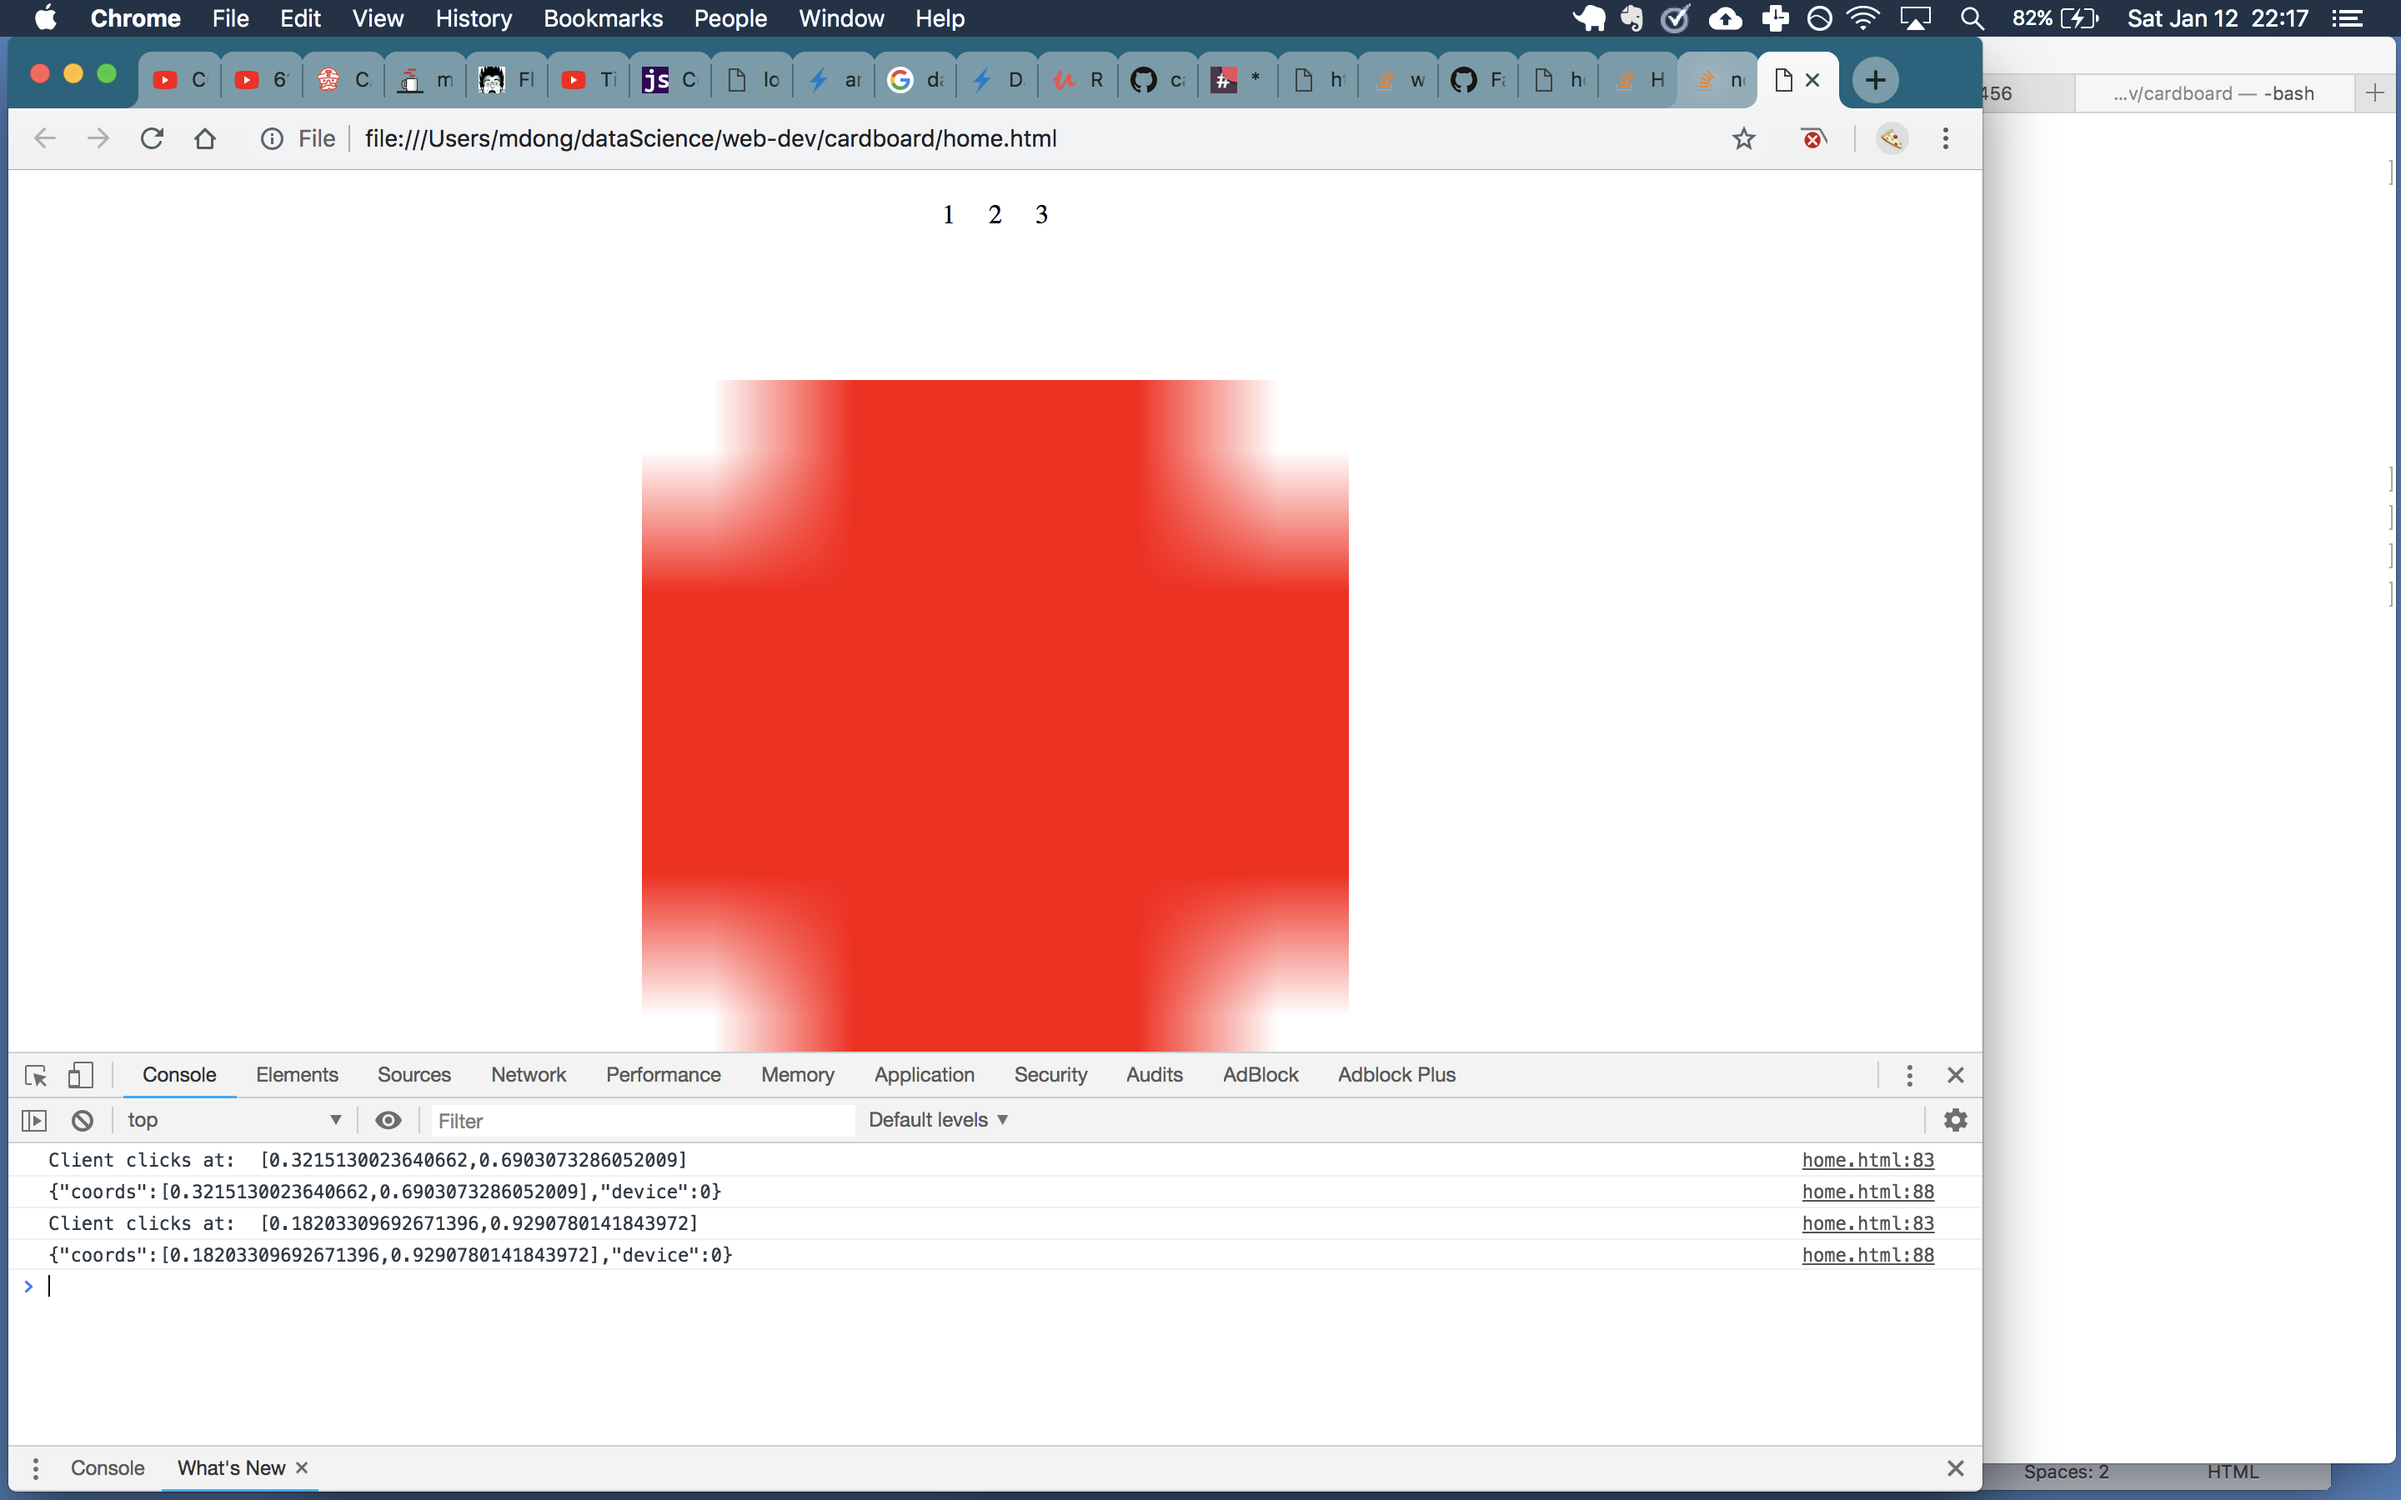
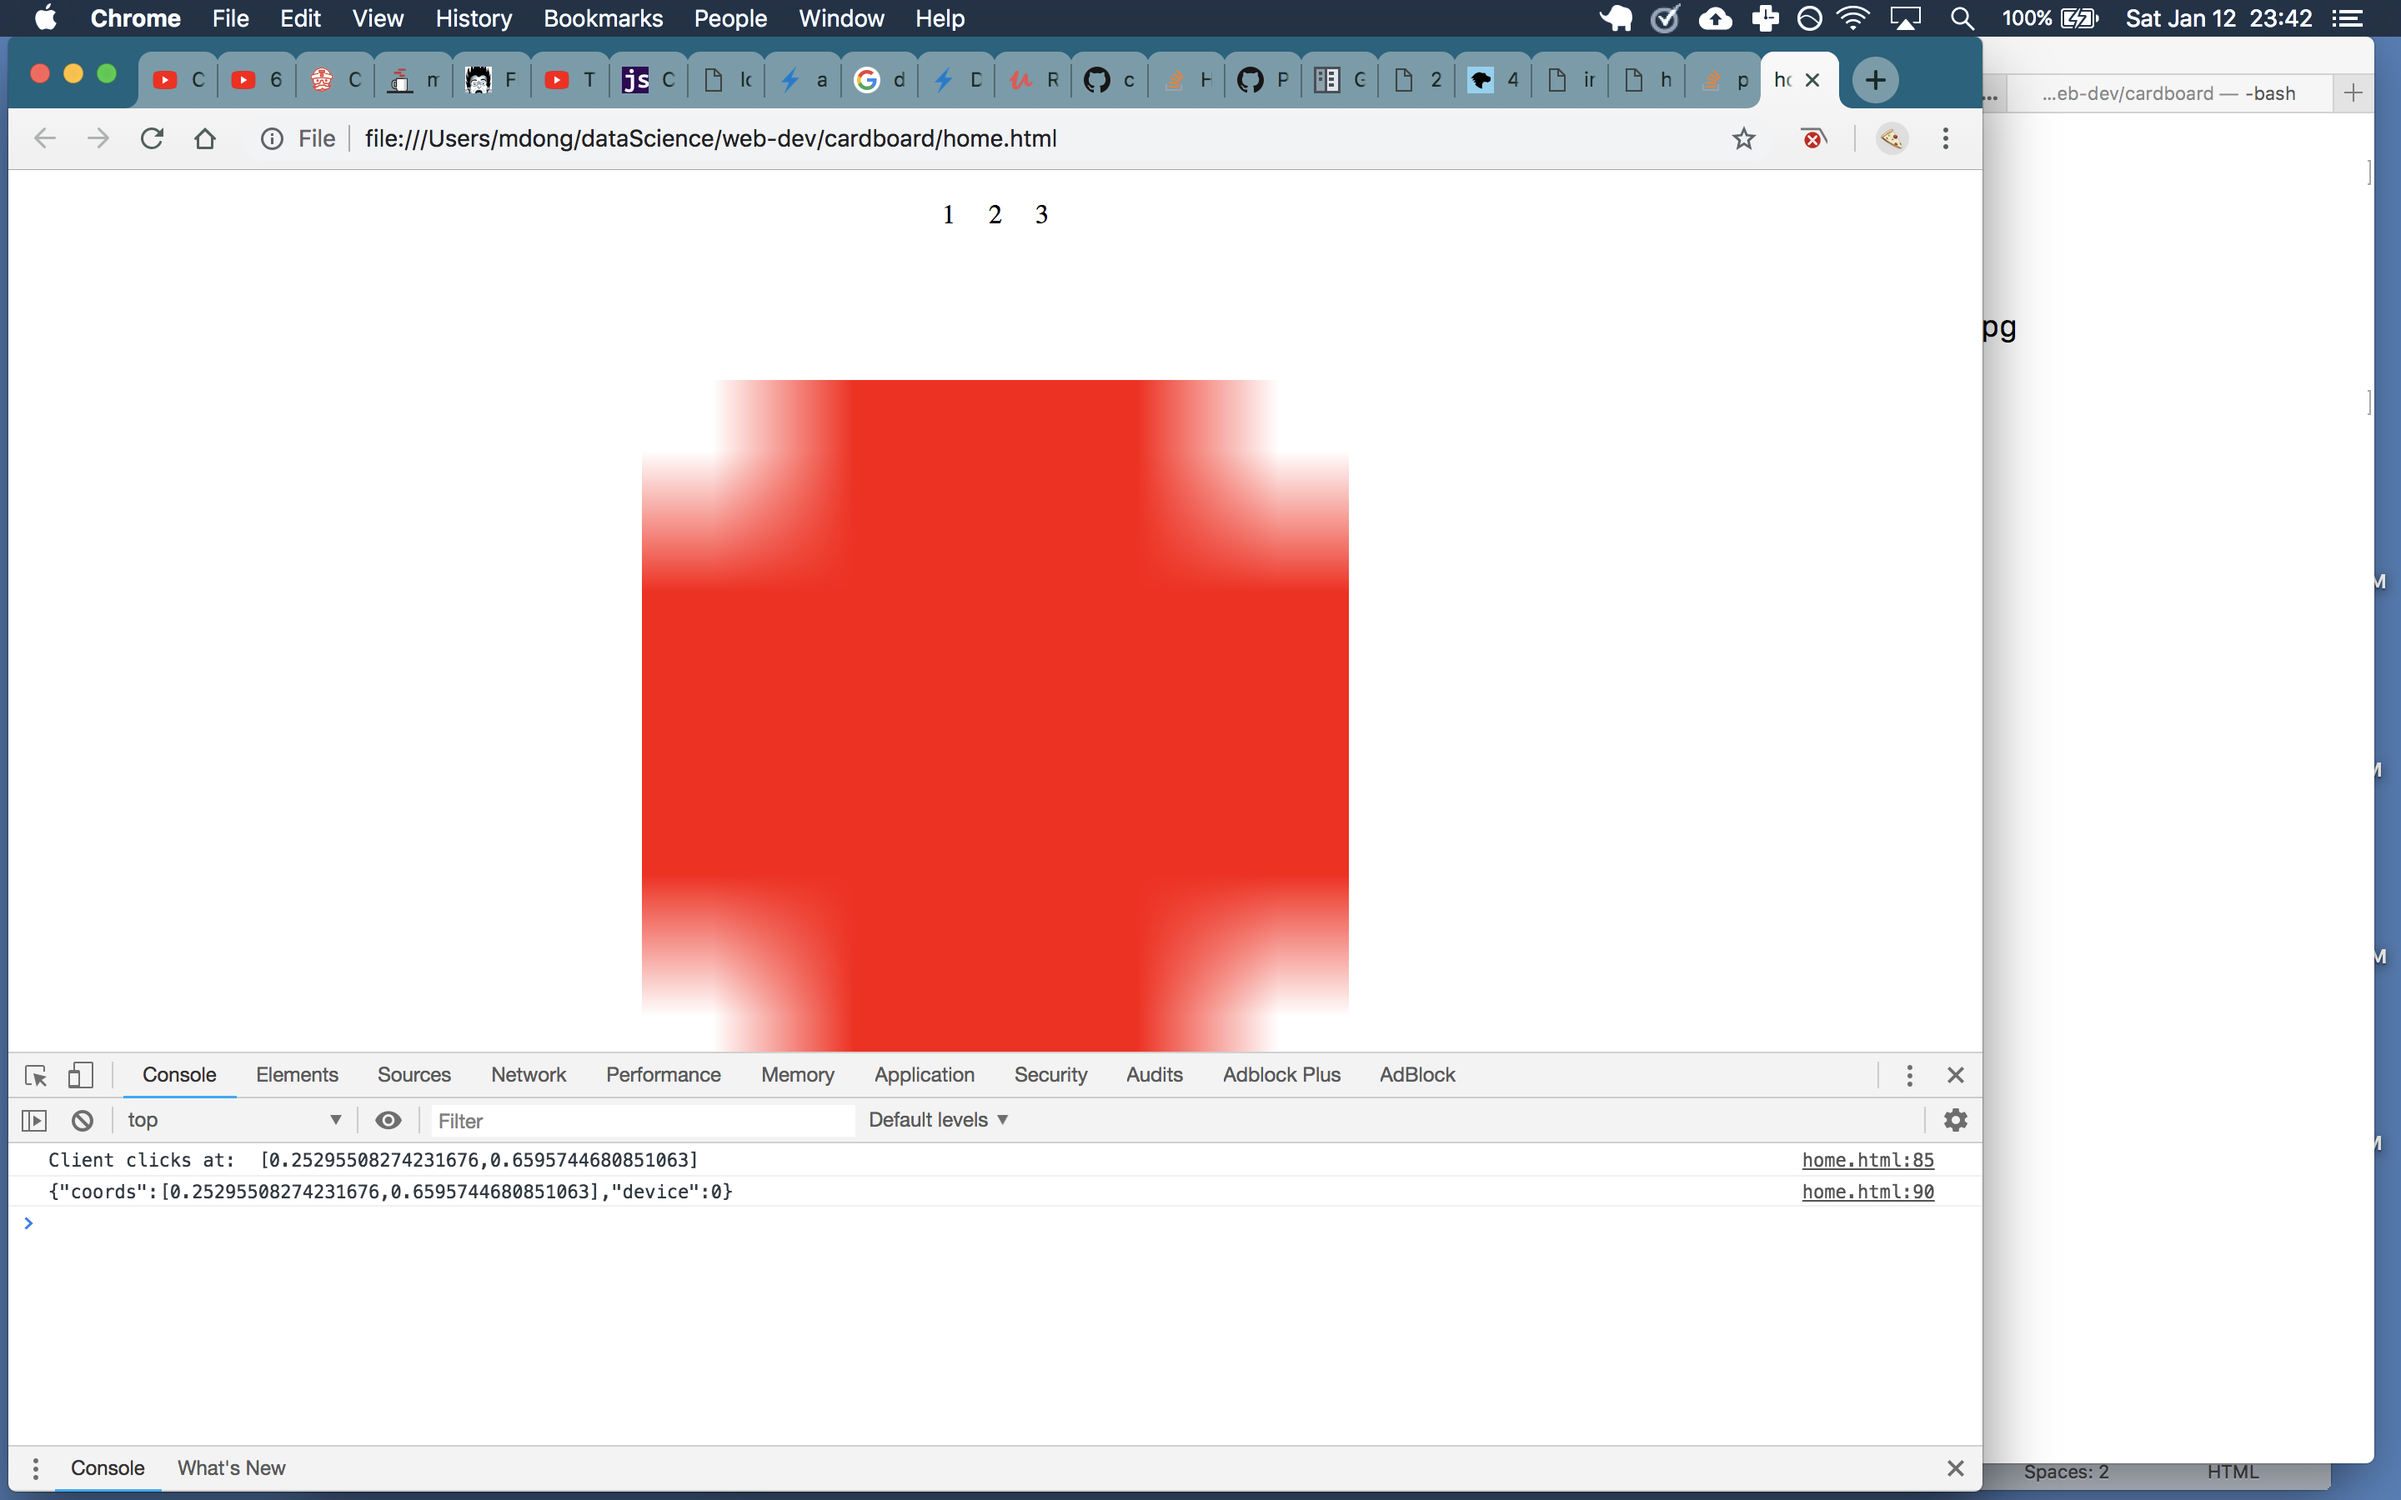
please ngrok work

diff --git a/home.html b/home.html
@@ -61,7 +61,8 @@ AAAFCAYAAACNbyblAAAAHElEQVQI12P4//8/w38GIAXDIBKE0DHxgljNBAAO
 					document.getElementById(id).innerHTML = temp
 			});
 
-      var connection = new WebSocket('ws://934800cc.ngrok.io');
+      var connection = new WebSocket('ws://596d22a0.ngrok.io');
+      // new WebSocket('ws://e5f28c61.ngrok.io');
       // new WebSocket('ws://10.30.3.126:23456');
 
       connection.onmessage = function (event) {
@@ -87,7 +88,7 @@ AAAFCAYAAACNbyblAAAAHElEQVQI12P4//8/w38GIAXDIBKE0DHxgljNBAAO
 					'device':currentState
 				}
 				console.log(JSON.stringify(full_data))
-        connection.send(JSON.stringify(data));
+        connection.send(JSON.stringify(full_data));
         // connection.send(JSON.stringify(full_data))
         connection.onerror = function (error) {
           console.log("an error occurred when sending/receiving data")

diff --git a/server.py b/server.py
@@ -12,28 +12,28 @@ from io import BytesIO
 import json
 
 # create TCP/IP socket
-sock = socket.socket(socket.AF_INET, socket.SOCK_STREAM)
+# sock = socket.socket(socket.AF_INET, socket.SOCK_STREAM)
 
-# retrieve local hostname
-local_hostname = socket.gethostname()
+# # retrieve local hostname
+# local_hostname = socket.gethostname()
 
-# get fully qualified hostname
-local_fqdn = socket.getfqdn()
+# # get fully qualified hostname
+# local_fqdn = socket.getfqdn()
 
-# get the according IP address
-# ip_address = socket.gethostbyname(local_hostname)
-ip_address = socket.gethostbyname("127.0.0.1")
+# # get the according IP address
+# # ip_address = socket.gethostbyname(local_hostname)
+# ip_address = socket.gethostbyname("127.0.0.1")
 
-# output hostname, domain name and IP address - change to unique IP address
-print ("working on %s (%s) with %s" % (local_hostname, local_fqdn, ip_address))
+# # output hostname, domain name and IP address - change to unique IP address
+# print ("working on %s (%s) with %s" % (local_hostname, local_fqdn, ip_address))
 
-# bind the socket to the port 23456
-server_address = (ip_address, 23456)
-print ('starting up on %s port %s' % server_address)
-sock.bind(server_address)
+# # bind the socket to the port 23456
+# server_address = (ip_address, 23456)
+# print ('starting up on %s port %s' % server_address)
+# sock.bind(server_address)
 
-# listen for incoming connections (server mode) with one connection at a time
-sock.listen(3)
+# # listen for incoming connections (server mode) with one connection at a time
+# sock.listen(3)
 
 current_socket = ''
 sockets = {}
@@ -51,7 +51,7 @@ async def run_server(websocket, path):
     while True:
         data = await websocket.recv()
         data = json.loads(data)
-
+        print (data)
         coords = data['coords']
 
         print(f"Received from client {coords}")
@@ -76,8 +76,8 @@ async def run_server(websocket, path):
         index = data['device']
 	# return payload
 
-# start_server = websockets.serve(run_server, 'localhost', 8765)
-start_server = websockets.serve(run_server, '10.30.3.126', 23456)
+start_server = websockets.serve(run_server, 'localhost', 23456)
+# start_server = websockets.serve(run_server, '10.30.3.126', 23456)
 # websockets.serve(run_server, '10.30.3.126', 23456)
 
 asyncio.get_event_loop().run_until_complete(start_server)
